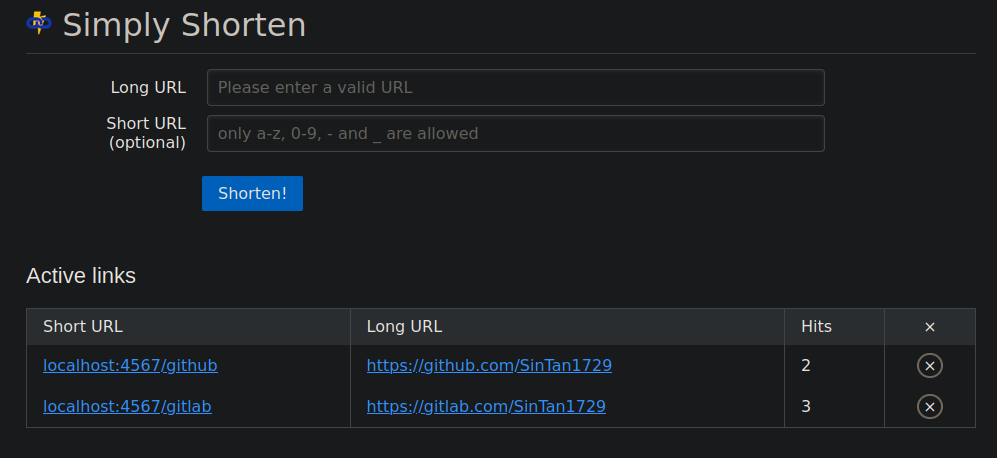
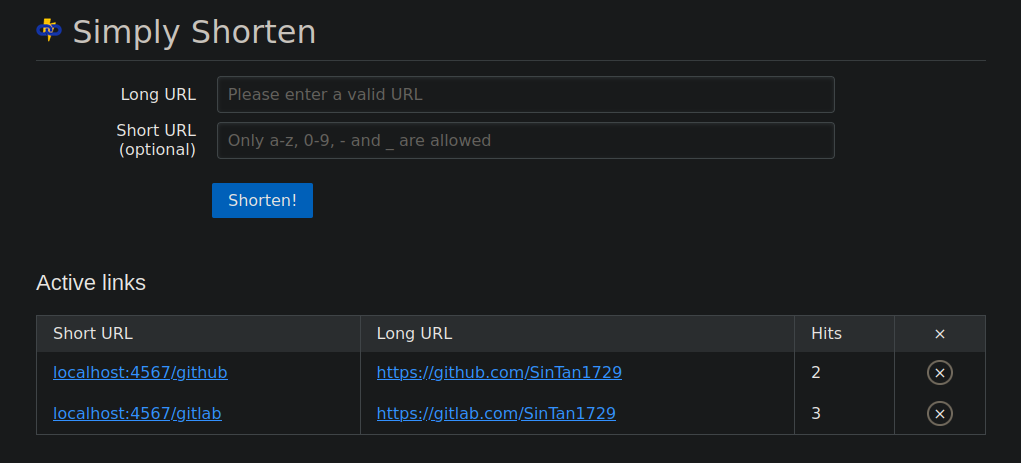
Disable forced lowercase for placeholder

diff --git a/src/main/resources/public/index.html b/src/main/resources/public/index.html
@@ -25,20 +25,12 @@
             width: 100%;
         }
 
-        input {
-            width: 65%;
-        }
-
         table tr td div {
             max-height: 75px;
             line-height: 25px;
             word-wrap: break-word;
             max-width: 575px;
             overflow: auto;
-        }
-
-        form input[name="shortUrl"] {
-            text-transform: lowercase;
         }
 
         td[name="deleteBtn"] {
@@ -50,6 +42,18 @@
             border-style: solid;
             cursor: pointer;
             background-color: transparent;
+        }
+
+        input {
+            width: 65%;
+        }
+
+        form input[name="shortUrl"] {
+            text-transform: lowercase;
+        }
+
+        form input[name="shortUrl"]::placeholder {
+            text-transform: none;
         }
     </style>
 </head>
